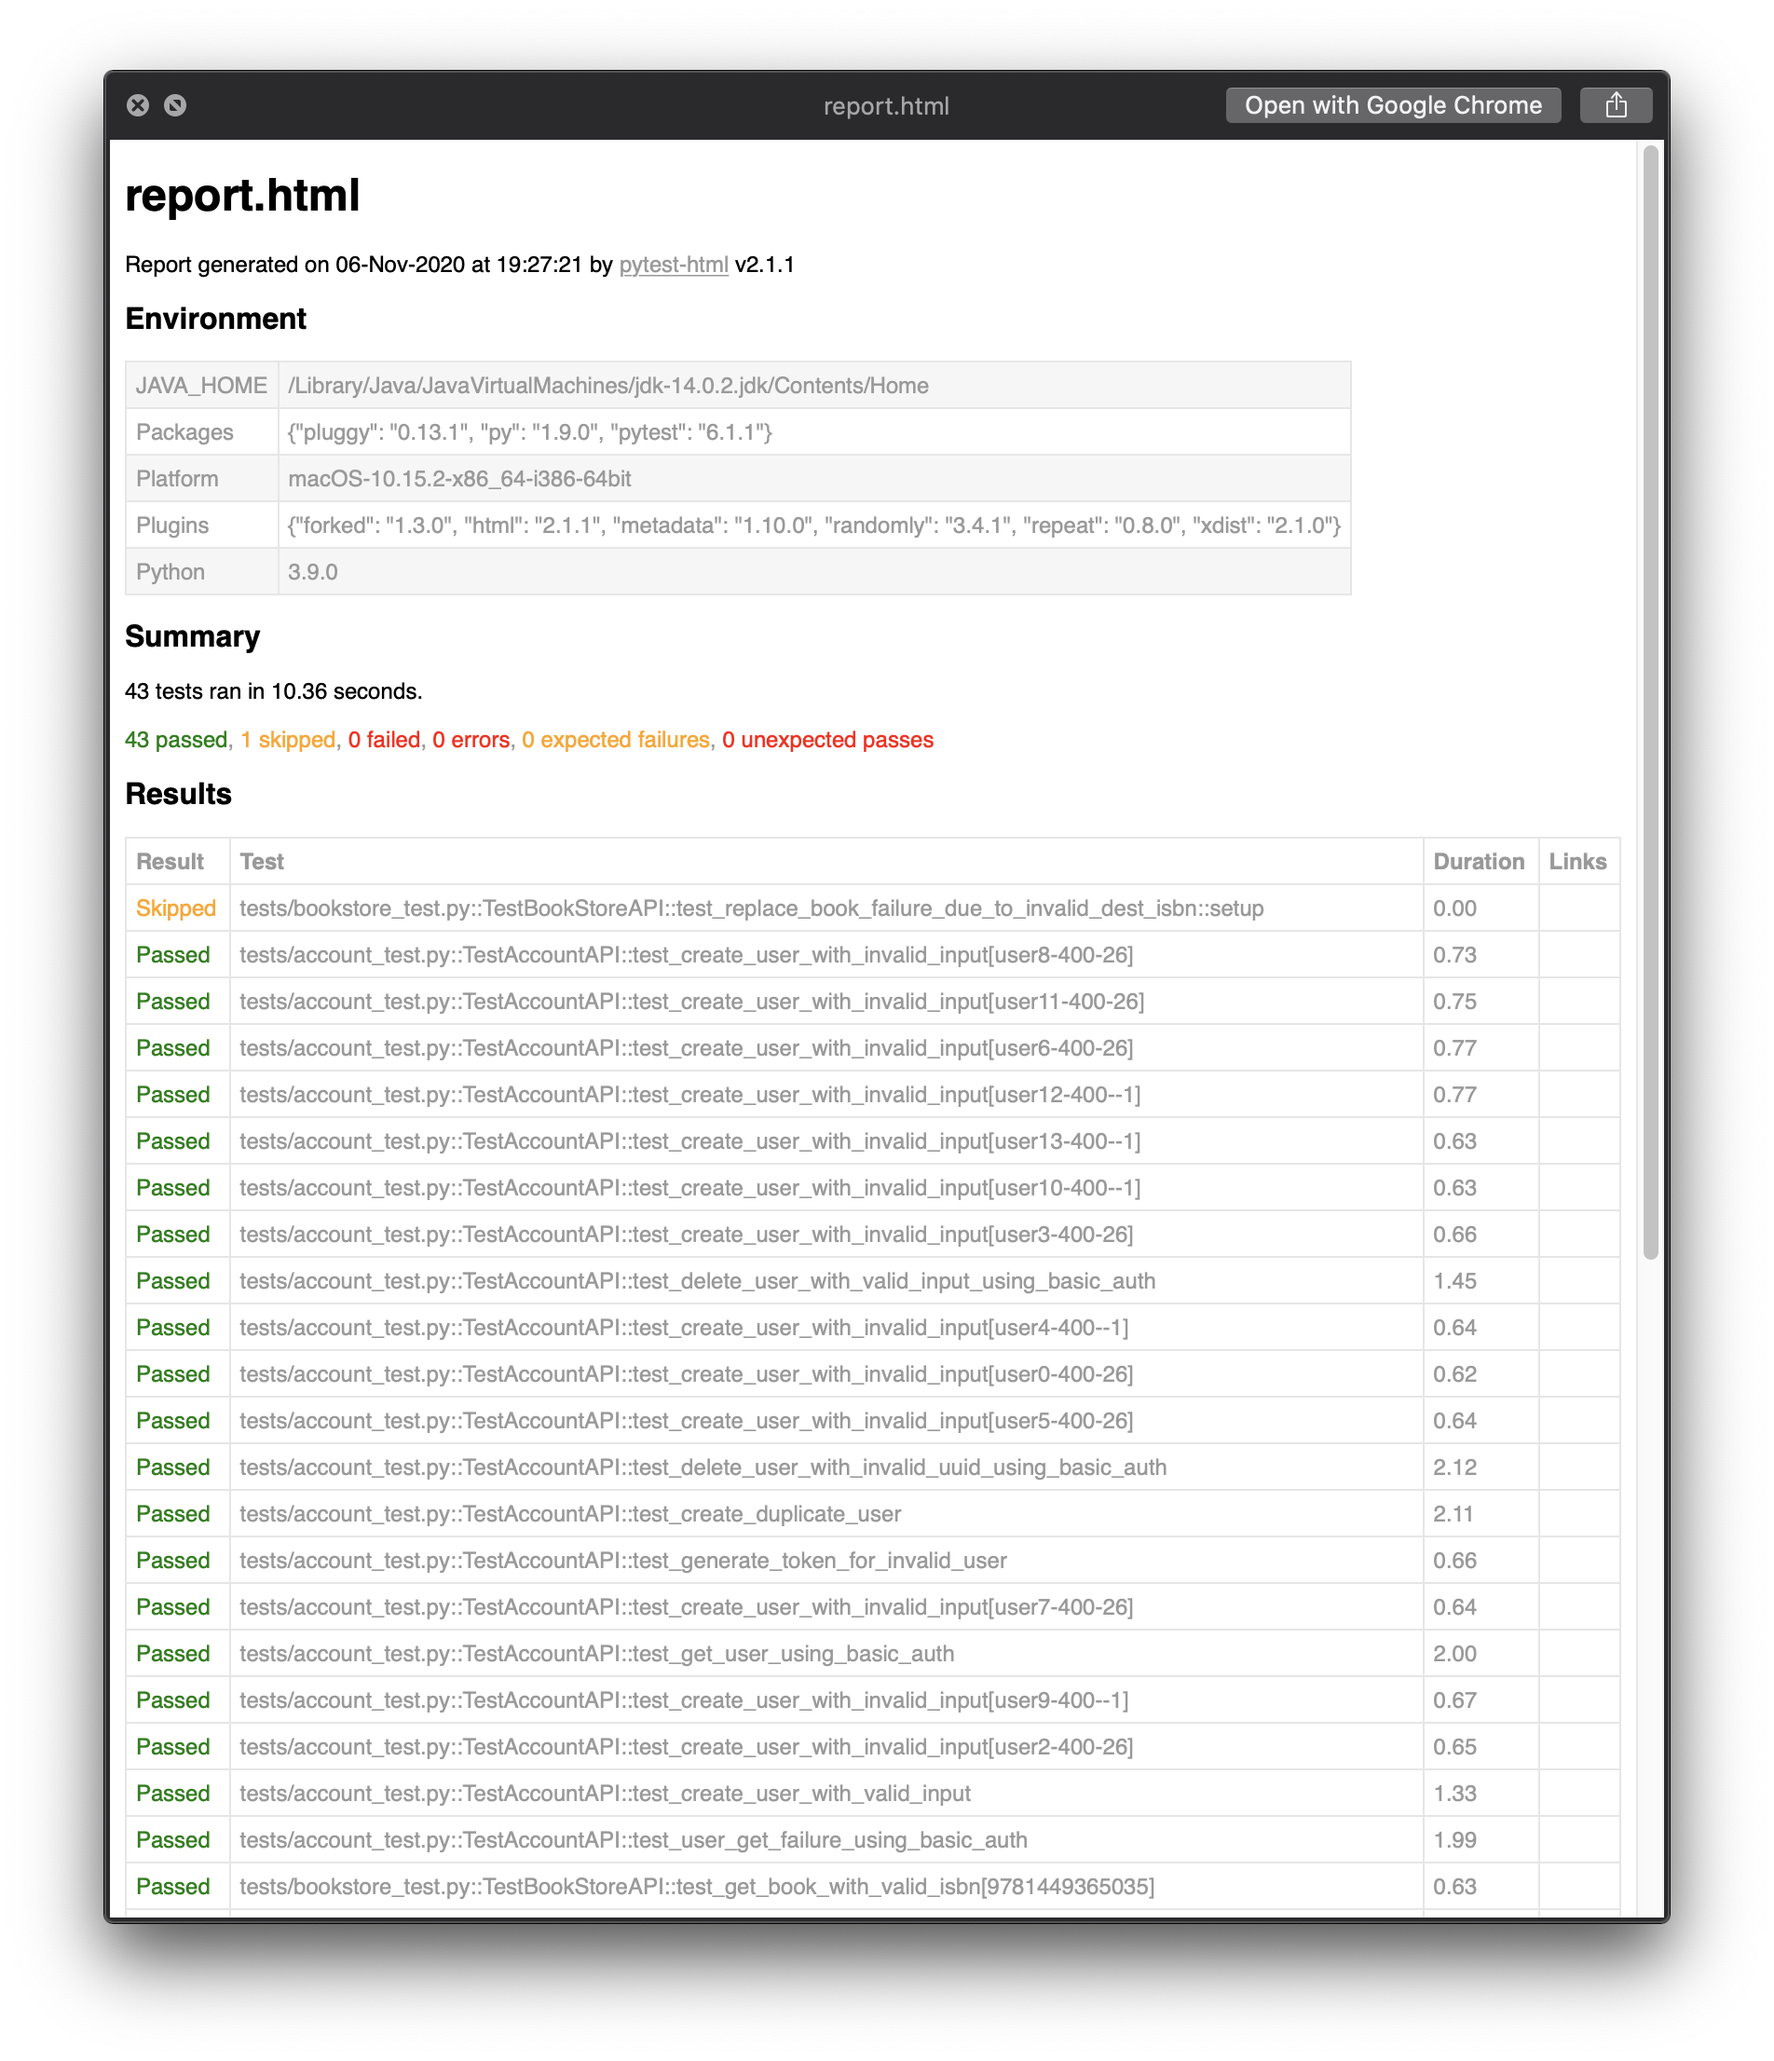
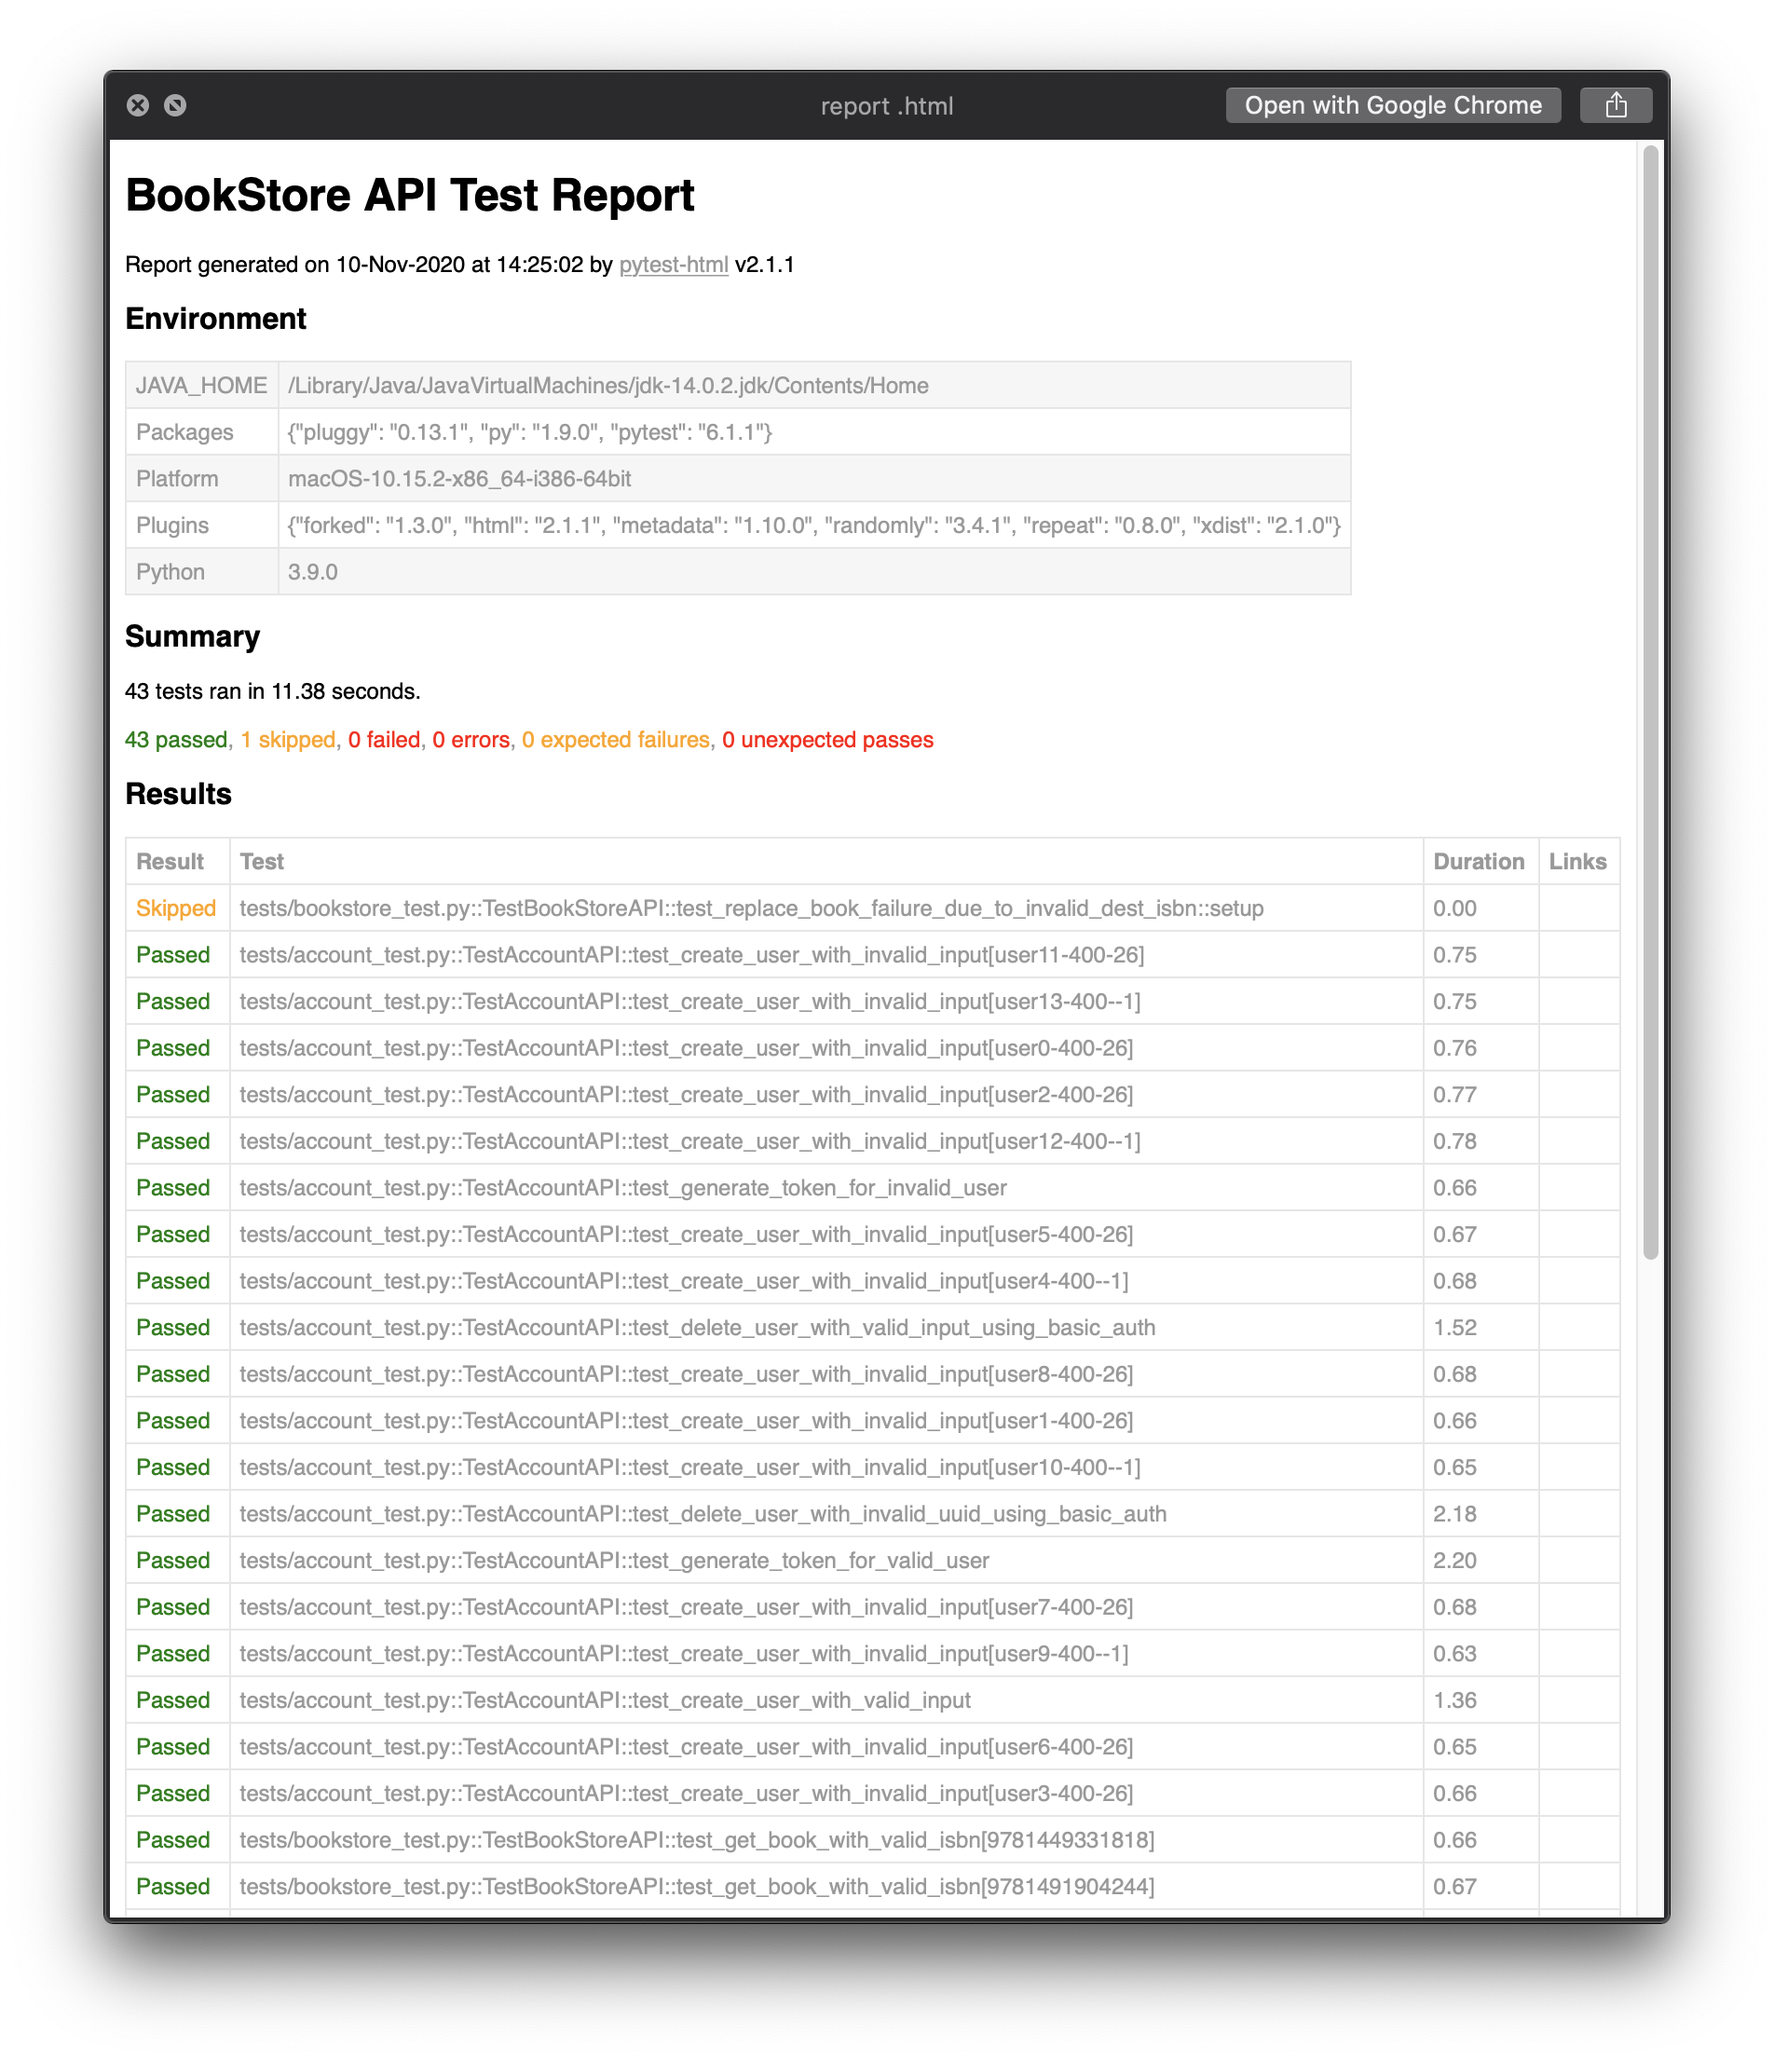
Add custom HTML report title.

diff --git a/tests/conftest.py b/tests/conftest.py
@@ -3,6 +3,9 @@ import os
 import rootpath
 import shutil
 
+def pytest_html_report_title(report):
+    report.title = "BookStore API Test Report"
+
 def pytest_sessionstart(session):
     path = os.path.join(rootpath.detect(), "reports")
     if os.path.exists(path):
